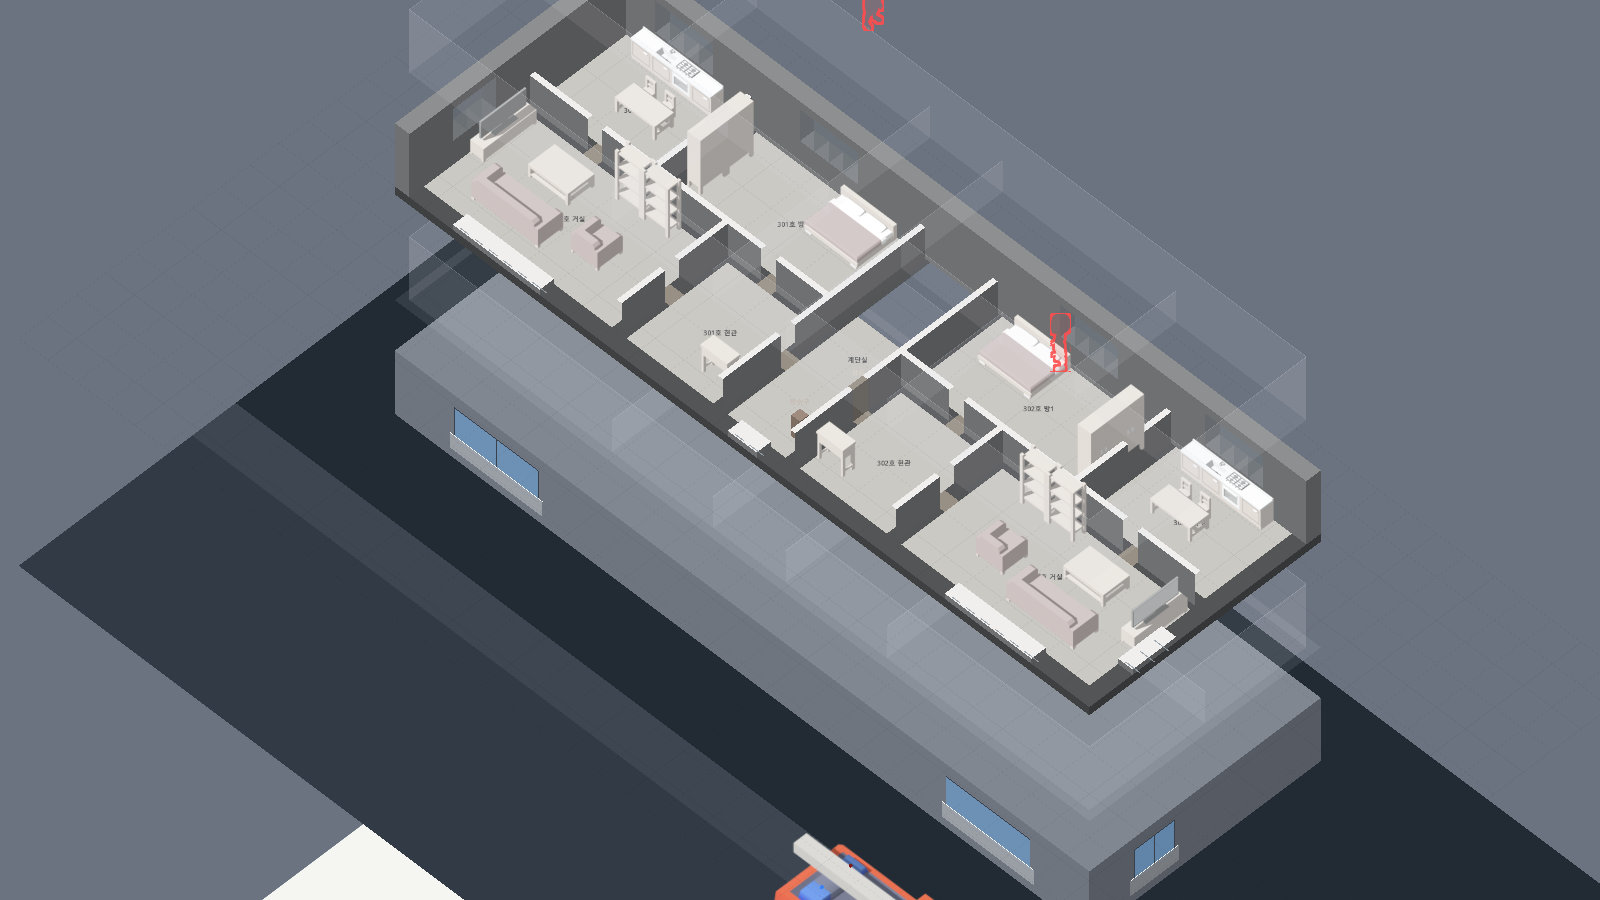
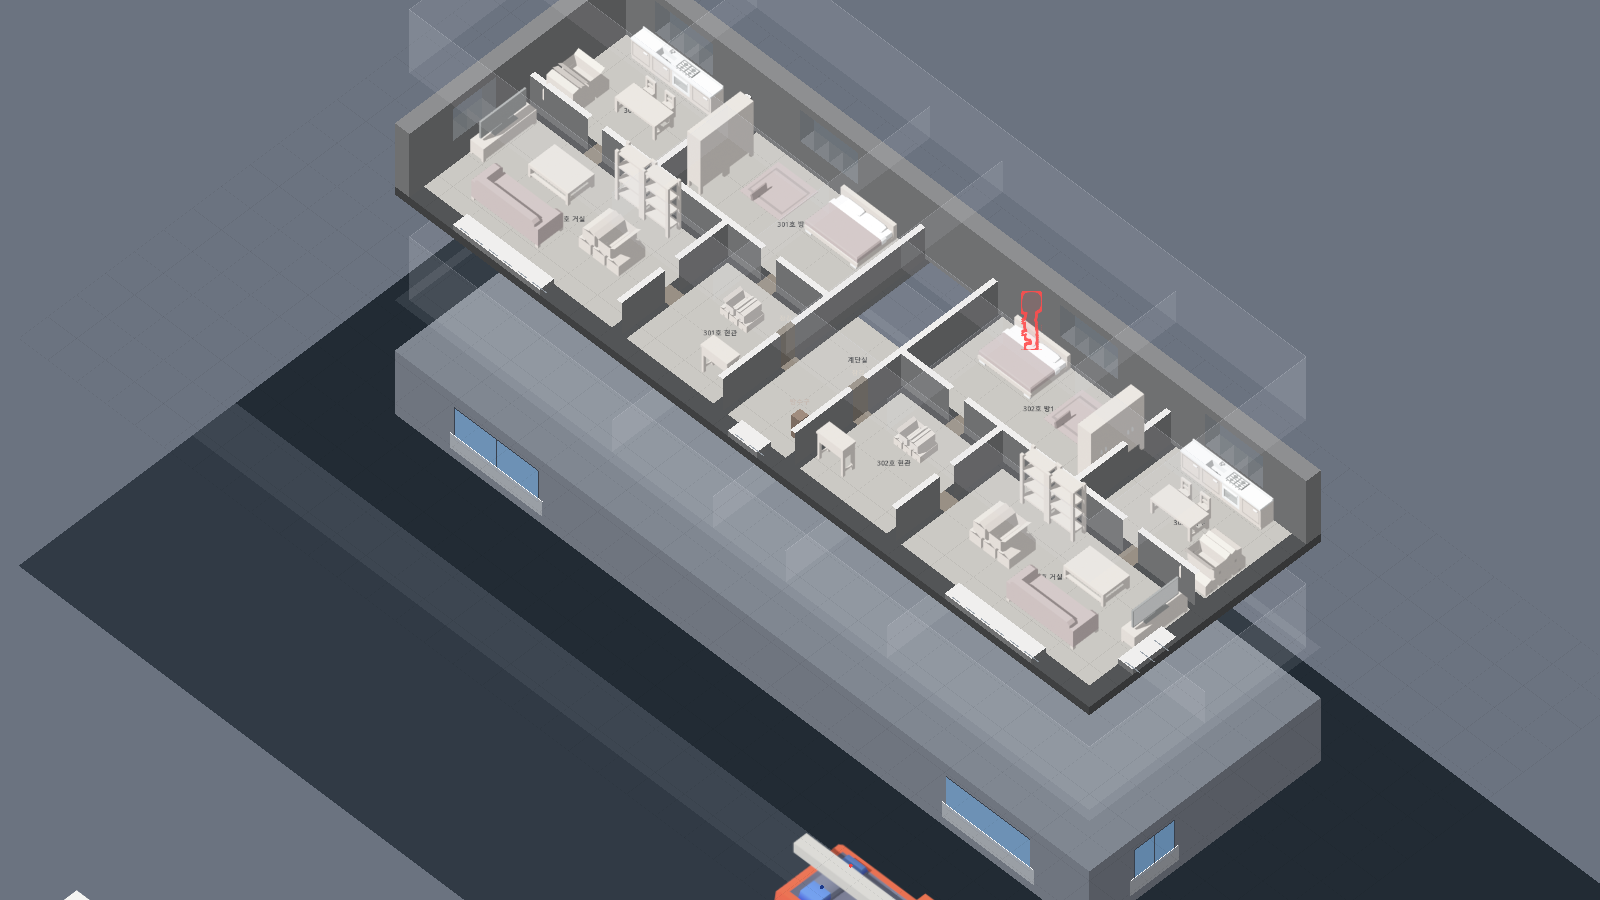
F04: 중성대 눈금 없앰, 연기를 천장부터 줄로 겹쳐 쌓아 내려오게(새 줄 옅게→진하게, 흘러내림)

diff --git a/docs/progress.md b/docs/progress.md
@@ -30,3 +30,4 @@
 | 2026-11-11 | P4-5 진입구·층·계단 고르기 조작 | scripts/simulation/grid/stair_cores.gd(새)·pathfinder(밖으로 둘러 가는 길), scripts/units/unit_system(via·outdoor), scripts/command/command_system(진입구로 가기·층 목표·계단 묻기·동시 진입)·command_order(approach·floor·stair·entry_all)·move_command(via)·tactical_command, scripts/ui/selection_controller(안내 흐름·노란 표시·땅 우클릭=지휘관)·mission_ui(원형 메뉴 → 대상 목록)·card_ui(동시 진입)·building/floor_layer(층 테두리)·iso_view·world, data/command/radio_params(stair_answer_wait_s), tests(test_floor_flow 새, ui_smoke·ui_command_card 고침, _shot_guide·_shot_stairs 새), docs/test_guides/P4-5 | 전체 테스트는 사용자 지시 때. 계단 둘인 건물은 지하 노래방뿐. 사다리 창 진입구 없음 |
 | 2026-11-11 | 즉시 지시 (P10-3) | scripts/command/radio(instant_orders·send_ack)·organization(즉시·통솔범위 끄기)·command_system(set_order_mode·지연 이유 알림·진입 요청 즉시), scripts/simulation/sim_world(난이도별), scripts/evaluation/sim_event_log, data/command/radio_params(instant_char_scale), tests(test_instant_orders 새, ui_smoke 무전 확인) | 기획안 9-1 '교신 2~3초 뒤 움직임'은 악조건에만 남음 |
 | 2026-11-12 | F01 층 위치 B · 연기층 그림 1단계 | data/ui/view_params(stagger B, smoke_*), scripts/ui/building/view_params·floor_layer(_draw_smoke_cloud·_draw_smoke_gauge·_people_in)·fx_art(draw_puff_rect), scripts/simulation/crew_condition_system(eye_standing_m), tests(test_cutaway 값·눈높이, _shot_house 새) | 연기 2단계(쌓이는 움직임) 남음 |
+| 2026-11-12 | F04 연기 중첩 쌓기 | scripts/ui/building/floor_layer(_draw_smoke_cloud 줄 쌓기, 눈금 지움)·view_params(smoke_row_m·smoke_max_rows·smoke_sink_s), crew_condition_system(눈높이 함수 지움), data/ui/view_params, tests/test_cutaway | 문 넘침·솟는 기둥(2단계)은 사용자 판단 대기 |

diff --git a/docs/decisions.md b/docs/decisions.md
@@ -105,3 +105,4 @@
 | 2026-11-12 | F01 | 정적인 것은 무채색, 움직이는 것만 색 | 지금 층도 두 겹: 바탕(바닥·벽·가구·문)은 색 85% 빼기, 그 위 색 겹(CurrentLive)에 대원·요구조자·지휘관·차량·불·연기·수관·구역·경로를 원래 색으로. 짝 층은 반투명 없이 흑백 + 밝기 72%. 겹치는 곳은 대원·요구조자·불난 방 둘레만 위층을 비침 | 사용자 결정 — 지금 층에서 불·대원이 배경 색에 묻히던 문제. 프로스트펑크·디비전 전술지도처럼 배경은 무채색, 행동 요소만 색 |
 | 2026-11-12 | F01 | 2층 이상 층 위치 | B: 위층을 뒤로 0.3(건물 깊이 비율) + 위로 260px (예전 0.67·143px) | 사용자 결정 — 앞뒤로만 어긋나 '뒤 건물'처럼 보이던 문제. A(수직 330px)보다 덜 가림 |
 | 2026-11-12 | F04 | 연기층 그림 1단계 | 각진 반투명 판 + 테두리 → Kenney 연기 덩어리 구름층(아랫면 = 중성대, 천천히 출렁임), 방 안쪽은 옅게·잘린 앞면은 진하게, 짙으면 검은·옅으면 회색 연기, 방 앞 모서리 높이 눈금(연기 두께 막대 + 대원 눈높이 1.6m, 그 아래로 내려오면 주황, 사람 있는 방엔 '자세 낮춤') | 사용자 결정 — 판이 검은 상자·천장판으로 읽혀 화면이 혼란. 2단계(솟는 기둥→퍼짐→하강→문 넘침)는 다음 |
+| 2026-11-12 | F04 | 연기층 그림 1단계 고침 | 높이 눈금(중성대 표시) 없앰. 잘린 앞면에 연기 덩어리를 천장부터 0.4m마다 줄로 겹쳐 쌓음(최대 6줄): 연기층이 두꺼워지면 아래에 새 줄이 옅게 생겨 진해지고, 맨 아래 줄은 연기층 하단을 따라 내려옴. 덩어리는 6초 주기로 줄 안에서 흘러내렸다 다시 생김. 방 안쪽은 맨 아래 줄만 옅게 | 사용자 결정 — 중성대 표시는 필요 없고, 중첩으로 쌓여 내려오는 그림 |
